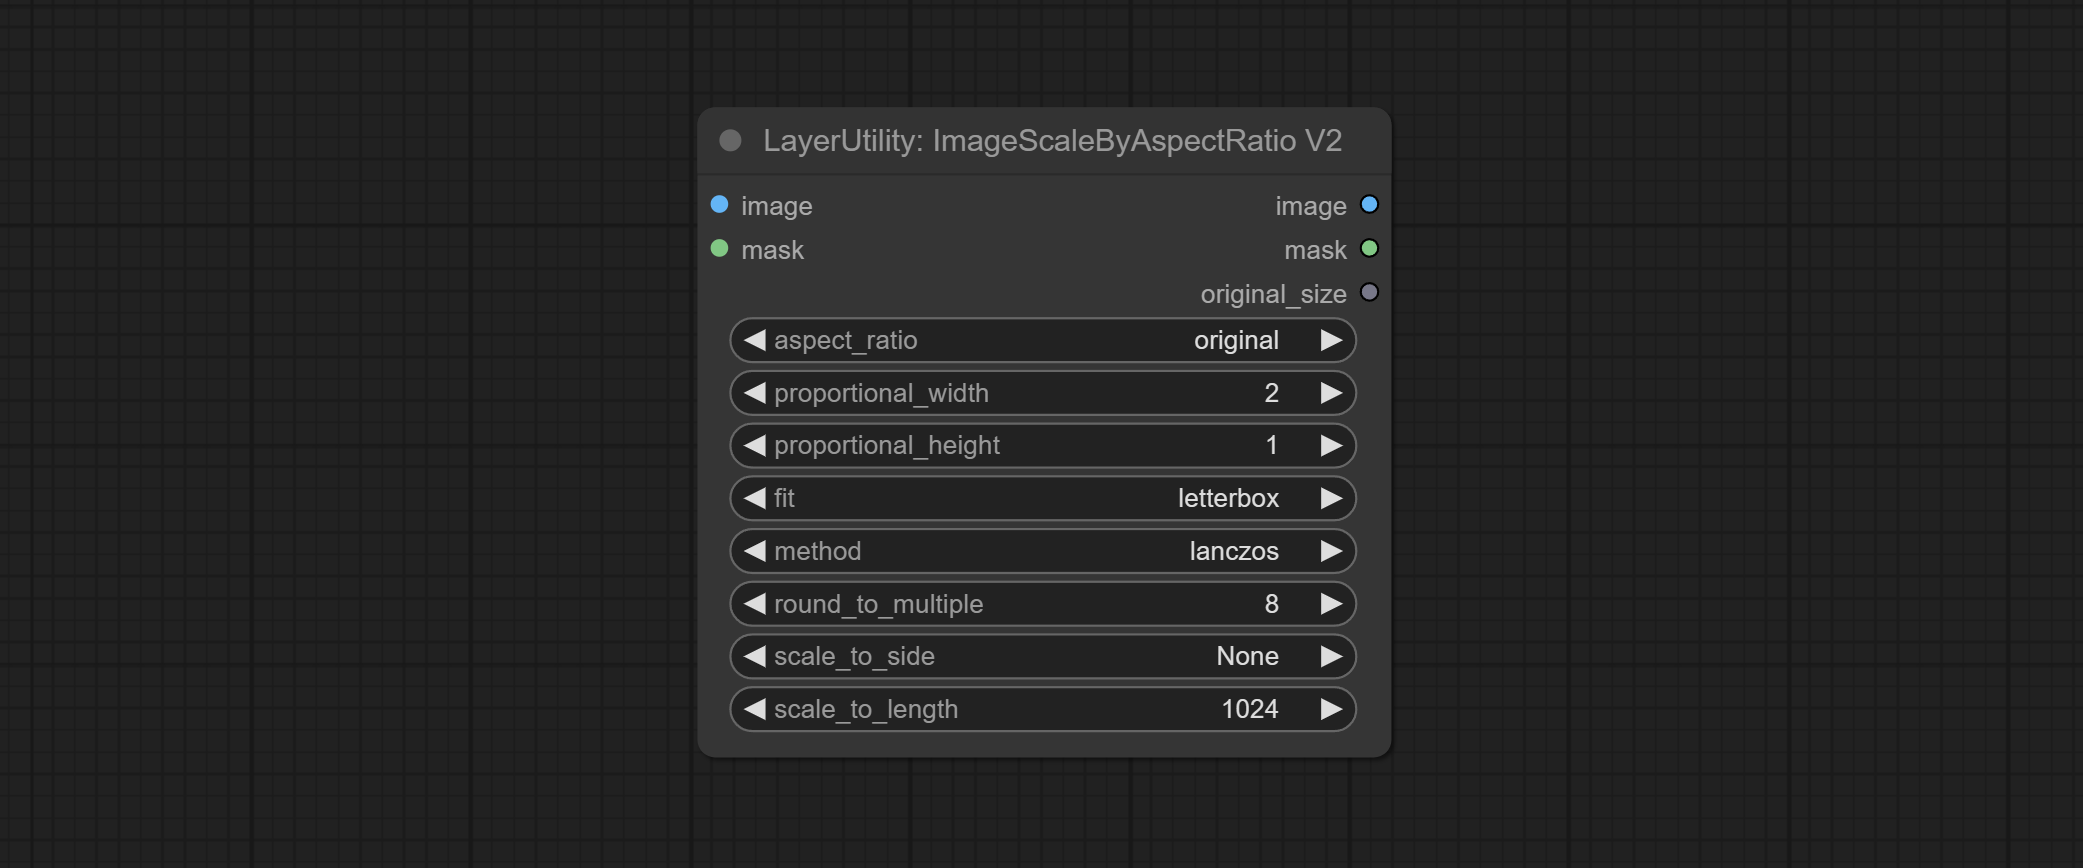
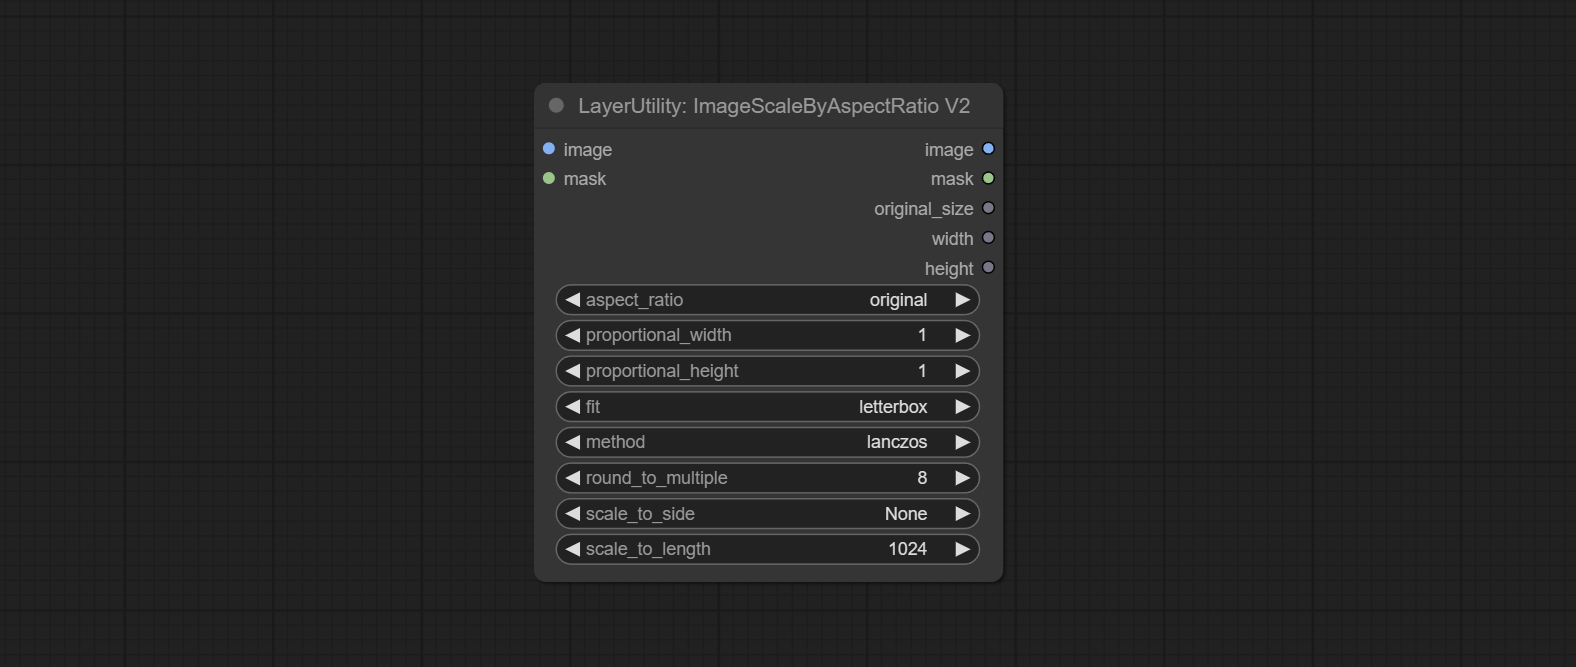
commit RGBValue and Seed node, image scale nodes increases width and height output

Changed region(s): [[0.342, 0.2099, 0.684, 0.8696], [0.342, 0.1499, 0.6529, 0.1799], [0.342, 0.2099, 0.4042, 0.2999]]

diff --git a/py/image_scale_by_aspect_ratio_v2.py b/py/image_scale_by_aspect_ratio_v2.py
@@ -33,8 +33,8 @@ class ImageScaleByAspectRatioV2:
             }
         }
 
-    RETURN_TYPES = ("IMAGE", "MASK", "BOX",)
-    RETURN_NAMES = ("image", "mask", "original_size")
+    RETURN_TYPES = ("IMAGE", "MASK", "BOX", "INT", "INT",)
+    RETURN_NAMES = ("image", "mask", "original_size", "width", "height",)
     FUNCTION = 'image_scale_by_aspect_ratio'
     CATEGORY = '😺dzNodes/LayerUtility'
 
@@ -65,14 +65,14 @@ class ImageScaleByAspectRatioV2:
             _width, _height = tensor2pil(orig_masks[0]).size
             if (orig_width > 0 and orig_width != _width) or (orig_height > 0 and orig_height != _height):
                 log(f"Error: {NODE_NAME} skipped, because the mask is does'nt match image.", message_type='error')
-                return (None, None, None)
+                return (None, None, None, 0, 0,)
             elif orig_width + orig_height == 0:
                 orig_width = _width
                 orig_height = _height
 
         if orig_width + orig_height == 0:
             log(f"Error: {NODE_NAME} skipped, because the image or mask at least one must be input.", message_type='error')
-            return (None, None, None)
+            return (None, None, None, 0, 0,)
 
         if aspect_ratio == 'original':
             ratio = orig_width / orig_height
@@ -136,16 +136,16 @@ class ImageScaleByAspectRatioV2:
                 ret_masks.append(image2mask(_mask))
         if len(ret_images) > 0 and len(ret_masks) >0:
             log(f"{NODE_NAME} Processed {len(ret_images)} image(s).", message_type='finish')
-            return (torch.cat(ret_images, dim=0), torch.cat(ret_masks, dim=0),[orig_width, orig_height],)
+            return (torch.cat(ret_images, dim=0), torch.cat(ret_masks, dim=0),[orig_width, orig_height], target_width, target_height,)
         elif len(ret_images) > 0 and len(ret_masks) == 0:
             log(f"{NODE_NAME} Processed {len(ret_images)} image(s).", message_type='finish')
-            return (torch.cat(ret_images, dim=0), None, [orig_width, orig_height],)
+            return (torch.cat(ret_images, dim=0), None, [orig_width, orig_height], target_width, target_height,)
         elif len(ret_images) == 0 and len(ret_masks) > 0:
             log(f"{NODE_NAME} Processed {len(ret_masks)} image(s).", message_type='finish')
-            return (None, torch.cat(ret_masks, dim=0), [orig_width, orig_height],)
+            return (None, torch.cat(ret_masks, dim=0), [orig_width, orig_height], target_width, target_height,)
         else:
             log(f"Error: {NODE_NAME} skipped, because the available image or mask is not found.", message_type='error')
-            return (None, None, None)
+            return (None, None, None, 0, 0,)
 
 NODE_CLASS_MAPPINGS = {
     "LayerUtility: ImageScaleByAspectRatio V2": ImageScaleByAspectRatioV2

diff --git a/py/image_scale_by_aspect_ratio.py b/py/image_scale_by_aspect_ratio.py
@@ -33,8 +33,8 @@ class ImageScaleByAspectRatio:
             }
         }
 
-    RETURN_TYPES = ("IMAGE", "MASK", "BOX",)
-    RETURN_NAMES = ("image", "mask", "original_size")
+    RETURN_TYPES = ("IMAGE", "MASK", "BOX", "INT", "INT",)
+    RETURN_NAMES = ("image", "mask", "original_size", "width", "height",)
     FUNCTION = 'image_scale_by_aspect_ratio'
     CATEGORY = '😺dzNodes/LayerUtility'
 
@@ -65,14 +65,14 @@ class ImageScaleByAspectRatio:
             _width, _height = tensor2pil(orig_masks[0]).size
             if (orig_width > 0 and orig_width != _width) or (orig_height > 0 and orig_height != _height):
                 log(f"Error: {NODE_NAME} skipped, because the mask is does'nt match image.", message_type='error')
-                return (None, None, None)
+                return (None, None, None, 0, 0,)
             elif orig_width + orig_height == 0:
                 orig_width = _width
                 orig_height = _height
 
         if orig_width + orig_height == 0:
             log(f"Error: {NODE_NAME} skipped, because the image or mask at least one must be input.", message_type='error')
-            return (None, None, None)
+            return (None, None, None, 0, 0,)
 
         if aspect_ratio == 'original':
             ratio = orig_width / orig_height
@@ -137,16 +137,16 @@ class ImageScaleByAspectRatio:
                 ret_masks.append(image2mask(_mask))
         if len(ret_images) > 0 and len(ret_masks) >0:
             log(f"{NODE_NAME} Processed {len(ret_images)} image(s).", message_type='finish')
-            return (torch.cat(ret_images, dim=0), torch.cat(ret_masks, dim=0),[orig_width, orig_height],)
+            return (torch.cat(ret_images, dim=0), torch.cat(ret_masks, dim=0),[orig_width, orig_height], target_width, target_height,)
         elif len(ret_images) > 0 and len(ret_masks) == 0:
             log(f"{NODE_NAME} Processed {len(ret_images)} image(s).", message_type='finish')
-            return (torch.cat(ret_images, dim=0), None,[orig_width, orig_height],)
+            return (torch.cat(ret_images, dim=0), None,[orig_width, orig_height], target_width, target_height,)
         elif len(ret_images) == 0 and len(ret_masks) > 0:
             log(f"{NODE_NAME} Processed {len(ret_masks)} image(s).", message_type='finish')
-            return (None, torch.cat(ret_masks, dim=0),[orig_width, orig_height],)
+            return (None, torch.cat(ret_masks, dim=0),[orig_width, orig_height], target_width, target_height,)
         else:
             log(f"Error: {NODE_NAME} skipped, because the available image or mask is not found.", message_type='error')
-            return (None, None, None)
+            return (None, None, None, 0, 0,)
 
 NODE_CLASS_MAPPINGS = {
     "LayerUtility: ImageScaleByAspectRatio": ImageScaleByAspectRatio

diff --git a/py/image_mask_scale_as.py b/py/image_mask_scale_as.py
@@ -27,8 +27,8 @@ class ImageMaskScaleAs:
             }
         }
 
-    RETURN_TYPES = ("IMAGE", "MASK", "BOX",)
-    RETURN_NAMES = ("image", "mask", "original_size")
+    RETURN_TYPES = ("IMAGE", "MASK", "BOX", "INT", "INT")
+    RETURN_NAMES = ("image", "mask", "original_size", "widht", "height",)
     FUNCTION = 'image_mask_scale_as'
     CATEGORY = '😺dzNodes/LayerUtility'
 
@@ -77,16 +77,16 @@ class ImageMaskScaleAs:
                 ret_masks.append(image2mask(_mask))
         if len(ret_images) > 0 and len(ret_masks) >0:
             log(f"{NODE_NAME} Processed {len(ret_images)} image(s).", message_type='finish')
-            return (torch.cat(ret_images, dim=0), torch.cat(ret_masks, dim=0), [orig_width, orig_height],)
+            return (torch.cat(ret_images, dim=0), torch.cat(ret_masks, dim=0), [orig_width, orig_height],target_width, target_height,)
         elif len(ret_images) > 0 and len(ret_masks) == 0:
             log(f"{NODE_NAME} Processed {len(ret_images)} image(s).", message_type='finish')
-            return (torch.cat(ret_images, dim=0), None, [orig_width, orig_height],)
+            return (torch.cat(ret_images, dim=0), None, [orig_width, orig_height],target_width, target_height,)
         elif len(ret_images) == 0 and len(ret_masks) > 0:
             log(f"{NODE_NAME} Processed {len(ret_masks)} image(s).", message_type='finish')
-            return (None, torch.cat(ret_masks, dim=0), [orig_width, orig_height],)
+            return (None, torch.cat(ret_masks, dim=0), [orig_width, orig_height], target_width, target_height,)
         else:
             log(f"Error: {NODE_NAME} skipped, because the available image or mask is not found.", message_type='error')
-            return (None, None, [orig_width, orig_height],)
+            return (None, None, [orig_width, orig_height], 0, 0,)
 
 NODE_CLASS_MAPPINGS = {
     "LayerUtility: ImageMaskScaleAs": ImageMaskScaleAs

diff --git a/py/data_nodes.py b/py/data_nodes.py
@@ -2,6 +2,23 @@ from .imagefunc import AnyType
 
 any = AnyType("*")
 
+class SeedNode:
+    def __init__(self):
+        pass
+    @classmethod
+    def INPUT_TYPES(self):
+        return {"required": {
+                "seed":("INT", {"default": 0, "min": 0, "max": 99999999999999999999, "step": 1}),
+            },}
+
+    RETURN_TYPES = ("INT",)
+    RETURN_NAMES = ("seed",)
+    FUNCTION = 'seed_node'
+    CATEGORY = '😺dzNodes/LayerUtility'
+
+    def seed_node(self, seed):
+        return (seed,)
+
 
 class BooleanOperator:
     def __init__(self):
@@ -143,14 +160,14 @@ class BooleanNode:
 
 
 
-
 NODE_CLASS_MAPPINGS = {
     "LayerUtility: BooleanOperator": BooleanOperator,
     "LayerUtility: NumberCalculator": NumberCalculator,
     "LayerUtility: TextBox": TextBoxNode,
     "LayerUtility: Integer": IntegerNode,
     "LayerUtility: Float": FloatNode,
-    "LayerUtility: Boolean": BooleanNode
+    "LayerUtility: Boolean": BooleanNode,
+    "LayerUtility: Seed": SeedNode
 }
 
 NODE_DISPLAY_NAME_MAPPINGS = {
@@ -159,5 +176,6 @@ NODE_DISPLAY_NAME_MAPPINGS = {
     "LayerUtility: TextBox": "LayerUtility: TextBox",
     "LayerUtility: Integer": "LayerUtility: Integer",
     "LayerUtility: Float": "LayerUtility: Float",
-    "LayerUtility: Boolean": "LayerUtility: Boolean"
+    "LayerUtility: Boolean": "LayerUtility: Boolean",
+    "LayerUtility: Seed": "LayerUtility: Seed"
 }

diff --git a/py/color_to_RGBvalue.py b/py/color_to_RGBvalue.py
@@ -1,0 +1,45 @@
+from .imagefunc import *
+
+NODE_NAME = 'RGB Value'
+any = AnyType("*")
+
+class ColorValuetoRGBValue:
+
+    def __init__(self):
+        pass
+
+    @classmethod
+    def INPUT_TYPES(self):
+
+        return {
+            "required": {
+                "color_value": (any, {}),
+            },
+            "optional": {
+            }
+        }
+
+    RETURN_TYPES = ("INT", "INT", "INT")
+    RETURN_NAMES = ("R", "G", "B")
+    FUNCTION = 'color_value_to_rgb_value'
+    CATEGORY = '😺dzNodes/LayerUtility'
+
+    def color_value_to_rgb_value(self, color_value,):
+        R, G, B = 0, 0, 0
+        if isinstance(color_value, str):
+            color = Hex_to_RGB(color_value)
+            R, G, B = color[0], color[1], color[2]
+        elif isinstance(color_value, tuple):
+            R, G, B = color_value[0], color_value[1], color_value[2]
+        else:
+            log(f"{NODE_NAME}: color_value input type must be tuple or string.", message_type="error")
+
+        return (R, G, B,)
+
+NODE_CLASS_MAPPINGS = {
+    "LayerUtility: RGB Value": ColorValuetoRGBValue
+}
+
+NODE_DISPLAY_NAME_MAPPINGS = {
+    "LayerUtility: RGB Value": "LayerUtility: RGB Value"
+}

diff --git a/py/image_scale_restore_v2.py b/py/image_scale_restore_v2.py
@@ -25,8 +25,8 @@ class ImageScaleRestoreV2:
             }
         }
 
-    RETURN_TYPES = ("IMAGE", "MASK", "BOX",)
-    RETURN_NAMES = ("image", "mask", "original_size")
+    RETURN_TYPES = ("IMAGE", "MASK", "BOX", "INT", "INT")
+    RETURN_NAMES = ("image", "mask", "original_size", "width", "height",)
     FUNCTION = 'image_scale_restore'
     CATEGORY = '😺dzNodes/LayerUtility'
 
@@ -106,7 +106,7 @@ class ImageScaleRestoreV2:
             ret_masks.append(image2mask(ret_mask))
 
         log(f"{NODE_NAME} Processed {len(ret_images)} image(s).", message_type='finish')
-        return (torch.cat(ret_images, dim=0), torch.cat(ret_masks, dim=0), [orig_width, orig_height],)
+        return (torch.cat(ret_images, dim=0), torch.cat(ret_masks, dim=0), [orig_width, orig_height], target_width, target_height,)
 
 
 NODE_CLASS_MAPPINGS = {

diff --git a/py/image_scale_restore.py b/py/image_scale_restore.py
@@ -24,8 +24,8 @@ class ImageScaleRestore:
             }
         }
 
-    RETURN_TYPES = ("IMAGE", "MASK", "BOX",)
-    RETURN_NAMES = ("image", "mask", "original_size")
+    RETURN_TYPES = ("IMAGE", "MASK", "BOX", "INT", "INT")
+    RETURN_NAMES = ("image", "mask", "original_size", "width", "height",)
     FUNCTION = 'image_scale_restore'
     CATEGORY = '😺dzNodes/LayerUtility'
 
@@ -98,7 +98,7 @@ class ImageScaleRestore:
             ret_masks.append(image2mask(ret_mask))
 
         log(f"{NODE_NAME} Processed {len(ret_images)} image(s).", message_type='finish')
-        return (torch.cat(ret_images, dim=0), torch.cat(ret_masks, dim=0), [orig_width, orig_height],)
+        return (torch.cat(ret_images, dim=0), torch.cat(ret_masks, dim=0), [orig_width, orig_height], target_width, target_height,)
 
 
 NODE_CLASS_MAPPINGS = {

diff --git a/py/imagefunc.py b/py/imagefunc.py
@@ -1,7 +1,6 @@
 """Image process functions for ComfyUI nodes
 by chflame https://github.com/chflame163
-"""
-"""
+
 @author: chflame
 @title: LayerStyle
 @nickname: LayerStyle

diff --git a/README.MD b/README.MD
@@ -70,6 +70,7 @@ When this error has occurred, please check the network environment.
 ## Update
 <font size="4">**If the dependency package error after updating, please reinstall the relevant dependency packages. </font><br />    
 
+* Add the [RGBValue](#RGBValue) node to output the color value as a single decimal value of R, G, and B. Add the [seed](#seed) node to output the seed value. The [ImageMaskScaleAs](#ImageMaskScaleAs), [ImageScaleBySspectRatio](#ImageScaleBySspectRatio), [ImageScaleBySspectRatioV2](#ImageScaleBySspectRatioV2), [ImageScaleRestore](#ImageScaleRestore), [ImageScaleRestoreV2](#ImageScaleRestoreV2) nodes increase ```width```, ```height``` output.
 * Commit [Levels](#Levels) node, it can achieve the same color levels adjustment function as Photoshop.[Sharp&Soft](#Sharp) add the "None" option.
 * Commit [BlendIfMask](#BlendIfMask) node, This node cooperates with ImgaeBlendV2 or ImageBlendAdvanceV2 to achieve the same Blend If function as Photoshop.
 * Commit [ColorTemperature](#ColorTemperature) and [ColorBalance](#ColorBalance) nodes, used to adjust the color temperature and color balance of the picture.
@@ -546,6 +547,8 @@ Outputs:
 * image: The scaled image.
 * mask: If have mask input, the scaled mask will be output.
 * original_size: The original size data of the image is used for subsequent node recovery.
+* width: The output image's width.
+* height: The output image's height.
 
 ### <a id="table1">ImageScaleRestoreV2</a>
 The V2 upgraded version of ImageScaleRestore.
@@ -577,6 +580,8 @@ Outputs:
 * image: If there is an image input, the scaled image will be output.
 * mask: If there is a mask input, the scaled mask will be output.
 * original_size: The original size data of the image is used for subsequent node recovery.
+* width: The output image's width.
+* height: The output image's height.
 
 ### <a id="table1">ImageScaleByAspectRatio</a>
 Scale the image or mask by aspect ratio. the scaled size can be rounded to a multiple of 8 or 16, and can be scaled to the long side size.
@@ -596,6 +601,13 @@ The _fill_ mode does not maintain frame ratio and fills the screen with width an
 * scale_by_longest_side: Allow scaling by long edge size.
 * longest_side: When the scale_by_longest_side is set to True, this will be used this value to the long edge of the image. when the original_size have input, this setting will be ignored.
 
+
+Outputs:
+* image: If have image input, the scaled image will be output.
+* mask: If have mask input, the scaled mask will be output.
+* original_size: The original size data of the image is used for subsequent node recovery.
+* width: The output image's width.
+* height: The output image's height.
 
 ### <a id="table1">ImageScaleByAspectRatioV2</a>
 V2 Upgraded Version of ImageScaleByAspectRatio
@@ -696,6 +708,14 @@ Node options:
 
 Output type: 
 * value: String format.
+
+### <a id="table1">RGBValue</a>
+Output the color value as a single R, G, B three decimal values. Supports HEX and DEC formats for ColorPicker node output.
+
+![image](image/RGB_value_example.png)
+
+Node Options:
+* color_value: Supports hexadecimal (HEX) or decimal (DEC) color values and should be of string or tuple type. Forcing in other types will result in an error.
 
 ### <a id="table1">GetColorTone</a>
 Obtain the main color or average color from the image and output RGB values.

diff --git a/README_CN.MD b/README_CN.MD
@@ -70,6 +70,7 @@ git clone https://github.com/chflame163/ComfyUI_LayerStyle.git
 ## 更新说明
 <font size="4">**如果本插件更新后出现依赖包错误，请重新安装相关依赖包。
 
+  * 添加 [RGBValue](#RGBValue) 节点, 将色值输出为单独的R, G, B三个10进制数值。添加[seed](#seed) 节点，输出种子值。[ImageMaskScaleAs](#ImageMaskScaleAs), [ImageScaleBySspectRatio](#ImageScaleBySspectRatio), [ImageScaleBySspectRatioV2](#ImageScaleBySspectRatioV2), [ImageScaleRestore](#ImageScaleRestore), [ImageScaleRestoreV2](#ImageScaleRestoreV2) 节点增加```width```, ```height``` 输出。
 * 添加 [Levels](#Levels) 节点, 可以实现与Photoshop相同的色阶调整功能。[Sharp&Soft](#Sharp)增加"None"选项。
 * 添加 [BlendIfMask](#BlendIfMask) 节点，该节点与 ImgaeBlendV2 或者 ImageBlendAdvanceV2 配合，可以实现与Photoshop相同的混合颜色带功能。
 * 添加 [ColorTemperature](#ColorTemperature) 和 [ColorBalance](#ColorBalance) 节点，用于调整图片色温和色彩平衡。
@@ -541,6 +542,8 @@ CropByMask的V2升级版。支持crop_box输入，方便裁切相同尺寸的图
 * image: 缩放后的图像。
 * mask: 如果有mask输入，将输出缩放后的mask。
 * original_size: 图像的原始大小数据，用于后续节点进行恢复。
+* width: 输出图片的宽。
+* height: 输出图片的高。
 
 ### <a id="table1">ImageScaleRestoreV2</a>
 ImageScaleRestore的V2升级版。
@@ -570,6 +573,8 @@ ImageScaleRestore的V2升级版。
 * image: 如果有image输入，将输出缩放后的图像。
 * mask: 如果有mask输入，将输出缩放后的遮罩。
 * original_size: 图像的原始大小数据，用于后续节点进行恢复。
+* width: 输出图片的宽。
+* height: 输出图片的高。
 
 
 ### <a id="table1">ImageScaleByAspectRatio</a>
@@ -592,6 +597,8 @@ ImageScaleRestore的V2升级版。
 * image: 如果有image输入，将输出缩放后的图像。
 * mask: 如果有mask输入，将输出缩放后的遮罩。
 * original_size: 图像的原始大小数据，用于后续节点进行恢复。
+* width: 输出图片的宽。
+* height: 输出图片的高。
 
 ### <a id="table1">ImageScaleByAspectRatioV2</a>
 ImageScaleByAspectRatio的V2升级版
@@ -692,6 +699,15 @@ ImageScaleByAspectRatio的V2升级版
 
 输出:
 * value: 字符串格式。
+
+### <a id="table1">RGBValue</a>
+将色值输出为单独的R, G, B三个10进制数值。支持ColorPicker节点输出的HEX和DEC格式。
+
+![image](image/RGB_value_example.png)
+
+节点选项说明:
+* color_value： 支持十六进制(HEX)或十进制(DEC)色值，应是string或tuple类型，强行接入其他类型将导致错误。
+
 
 ### <a id="table1">GetColorTone</a>
 从图片中获取主颜色或平均色。
